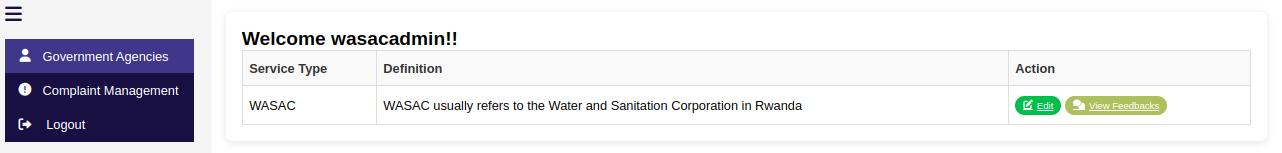
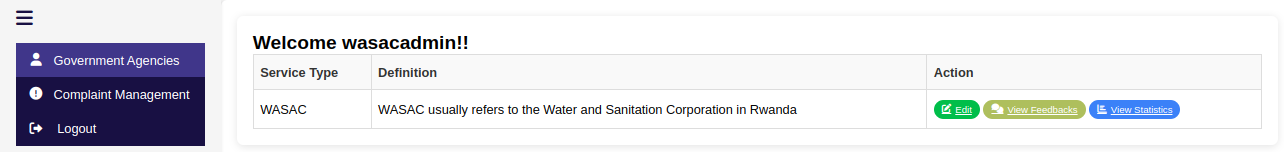
add service complaints statistics feature

diff --git a/static/css/statistics.css b/static/css/statistics.css
@@ -1,0 +1,52 @@
+body {
+    font-family: Arial, sans-serif;
+    background-color: #f3f3f3;
+    margin: 0;
+    padding: 0;
+}
+
+.wrapper {
+    display: flex;
+    justify-content: center;
+    align-items: center;
+    min-height: 100vh;
+}
+
+.statistics-section {
+    background-color: #fff;
+    padding: 30px 40px;
+    border-radius: 12px;
+    box-shadow: 0 4px 10px rgba(0, 0, 0, 0.1);
+    max-width: 500px;
+    width: 100%;
+    text-align: left;
+}
+
+.statistics-section h2 {
+    margin-bottom: 25px;
+    color: #333;
+}
+
+.stats-list {
+    list-style-type: none;
+    padding: 0;
+    font-size: 18px;
+}
+
+.stats-list li {
+    margin-bottom: 15px;
+}
+.btn-update {
+    background-color: #2196F3;
+}
+.back-link {
+    display: inline-block;
+    margin-top: 20px;
+    text-decoration: none;
+    color: #007bff;
+    font-weight: bold;
+}
+
+.back-link:hover {
+    text-decoration: underline;
+}

diff --git a/ccesapp/templates/statistics.html b/ccesapp/templates/statistics.html
@@ -1,0 +1,25 @@
+{% load static %}
+<!DOCTYPE html>
+<html lang="en">
+<head>
+    <meta charset="UTF-8">
+    <title>Service Statistics</title>
+    <meta name="viewport" content="width=device-width, initial-scale=1.0">
+    <link rel="stylesheet" href="{% static 'css/statistics.css' %}">
+</head>
+<body>
+    <div class="wrapper">
+        <div class="statistics-section">
+            <h2>Statistics for {{ service.serviceType }}</h2>
+            <ul class="stats-list">
+                <li><strong>Total Complaints:</strong> {{ total_complaints }}</li>
+                <li><strong>Resolved:</strong> {{ resolved }}</li>
+                <li><strong>Pending:</strong> {{ pending }}</li>
+            </ul>
+           
+        </div>
+    </div>
+</body>
+</html>
+
+

diff --git a/ccesapp/templates/service_admin/dashboard.html b/ccesapp/templates/service_admin/dashboard.html
@@ -214,7 +214,12 @@
                                         <i class="fas fa-trash"></i>Delete
                                     </button>
                                 </form> -->
+
+                                <a href="/service/{{ services.id }}/statistics/" class="btn-action btn-update">
+                                    <i class="fas fa-chart-bar"></i> View Statistics
+                                </a>
                             </td>
+                            
                         </tr>
                         
                        

diff --git a/ccesapp/views.py b/ccesapp/views.py
@@ -980,3 +980,18 @@ def service_admin_dashboard(request, service_id):
 
 def unauthorized(request):
     return render(request, 'unauthorized.html')
+
+def view_service_statistics(request, service_id):
+    service = get_object_or_404(PublicService, id=service_id)
+    complaints = Complaint.objects.filter(publicService=service)
+    total_complaints = complaints.count()
+    resolved = complaints.filter(status='Resolved').count()
+    pending = complaints.filter(status='pending').count()
+
+    context = {
+        'service': service,
+        'total_complaints': total_complaints,
+        'resolved': resolved,
+        'pending': pending
+    }
+    return render(request, 'statistics.html', context)

diff --git a/ccesapp/urls.py b/ccesapp/urls.py
@@ -98,7 +98,7 @@ urlpatterns = [
 
     path('service/<int:service_id>/login/', views.service_login, name='service_login'),
     path('service/<int:service_id>/register/', views.service_register, name='service_register'),
-
+    path('service/<int:service_id>/statistics/', views.view_service_statistics, name='view_service_statistics'),
     path('service_admin_dashboard/<int:service_id>/', views.service_admin_dashboard, name='service_admin_dashboard'),
    
     path('unauthorized/', views.unauthorized, name='unauthorized'),
